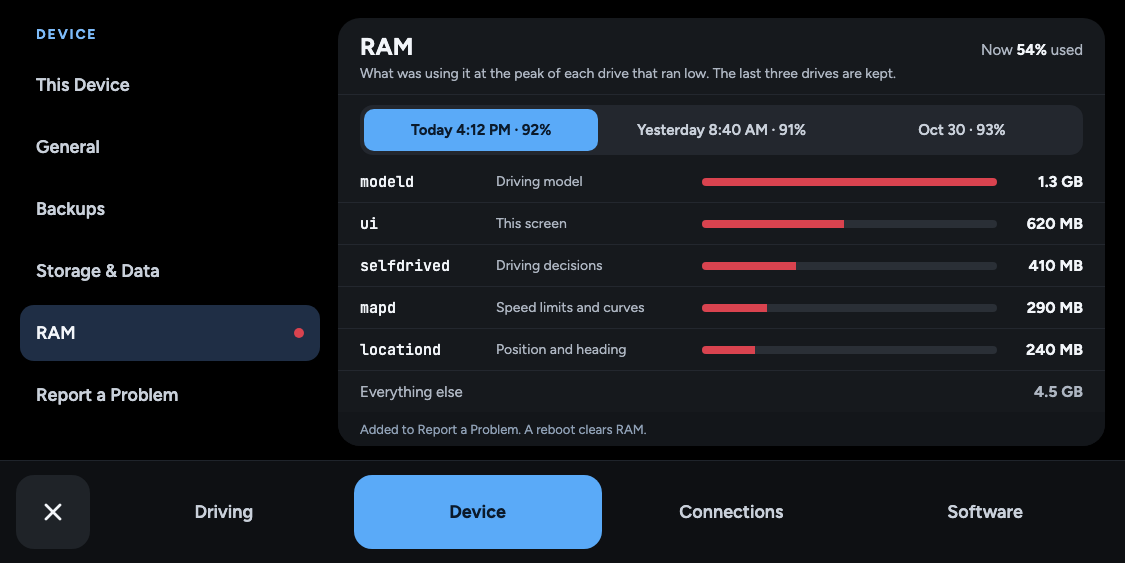
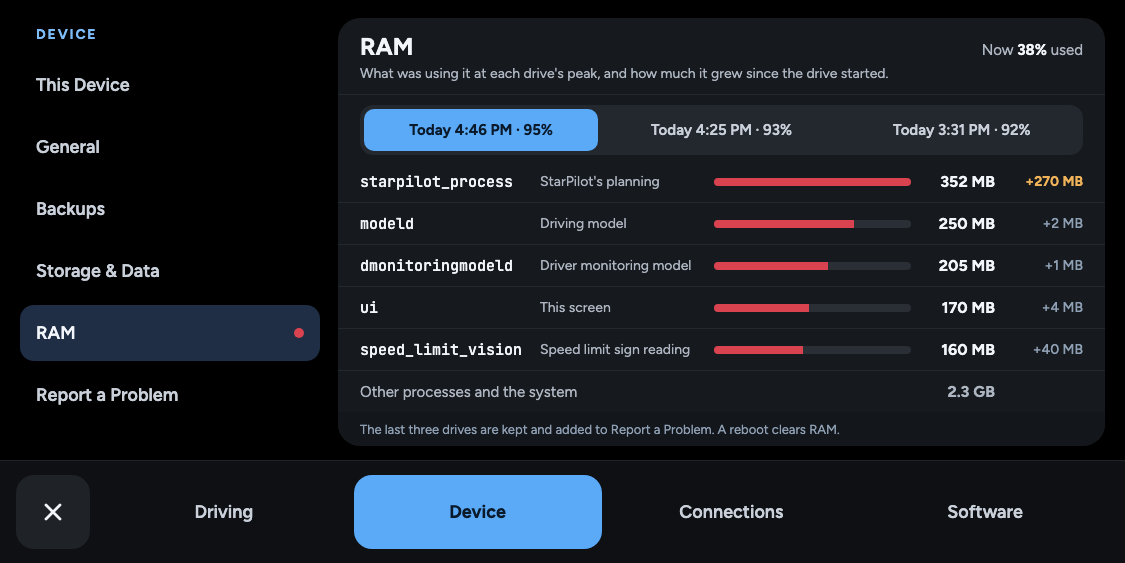
Mock RAM growth since the drive started on Device › RAM
Each process row gains its growth since a baseline a minute into the
drive (amber from 50 MB), sizes come from the 95% drive, and the bottom
row becomes Other processes and the system.

diff --git a/selfdrive/ui/tandem/design/systemram.html b/selfdrive/ui/tandem/design/systemram.html
@@ -27,51 +27,57 @@ a{color:#7DBBF9}a:hover{color:#A9D3FB}
     </div>
     <div style="flex-grow: 1; min-width: 0; background: #16191D; border-radius: 22px; display: flex; flex-direction: column; overflow: hidden;">
       <div style="padding: 14px 22px 12px; border-bottom: 1px solid #23272E; display: flex; flex-direction: column; gap: 4px;">
-        <div style="display: flex; align-items: baseline; justify-content: space-between;"><h2 style="margin: 0; font-size: 24px; font-weight: 700;">RAM</h2><span style="font-size: 15px; color: #AEB6C2;">Now <b style="color: #F2F5F9;">54%</b> used</span></div>
-        <span style="font-size: 14px; color: #AEB6C2;">What was using it at the peak of each drive that ran low. The last three drives are kept.</span>
+        <div style="display: flex; align-items: baseline; justify-content: space-between;"><h2 style="margin: 0; font-size: 24px; font-weight: 700;">RAM</h2><span style="font-size: 15px; color: #AEB6C2;">Now <b style="color: #F2F5F9;">38%</b> used</span></div>
+        <span style="font-size: 14px; color: #AEB6C2;">What was using it at each drive's peak, and how much it grew since the drive started.</span>
       </div>
       <div role="radiogroup" aria-label="Drives that ran low on RAM" style="margin: 10px 22px 6px; display: grid; grid-template-columns: repeat(3, minmax(0, 1fr)); gap: 6px; background: #23272E; border-radius: 13px; padding: 4px;">
-        <button type="button" role="radio" aria-checked="true" style="font-family: inherit; border: 0; height: 42px; border-radius: 10px; background: #5AAAF8; color: #0B1A2B; font-size: 15px; font-weight: 700;">Today 4:12 PM · 92%</button>
-        <button type="button" role="radio" aria-checked="false" style="font-family: inherit; border: 0; height: 42px; border-radius: 10px; background: transparent; color: #C9D0DA; font-size: 15px; font-weight: 600;">Yesterday 8:40 AM · 91%</button>
-        <button type="button" role="radio" aria-checked="false" style="font-family: inherit; border: 0; height: 42px; border-radius: 10px; background: transparent; color: #C9D0DA; font-size: 15px; font-weight: 600;">Oct 30 · 93%</button>
+        <button type="button" role="radio" aria-checked="true" style="font-family: inherit; border: 0; height: 42px; border-radius: 10px; background: #5AAAF8; color: #0B1A2B; font-size: 15px; font-weight: 700;">Today 4:46 PM · 95%</button>
+        <button type="button" role="radio" aria-checked="false" style="font-family: inherit; border: 0; height: 42px; border-radius: 10px; background: transparent; color: #C9D0DA; font-size: 15px; font-weight: 600;">Today 4:25 PM · 93%</button>
+        <button type="button" role="radio" aria-checked="false" style="font-family: inherit; border: 0; height: 42px; border-radius: 10px; background: transparent; color: #C9D0DA; font-size: 15px; font-weight: 600;">Today 3:31 PM · 92%</button>
       </div>
       <div style="display: flex; flex-direction: column;">
-        <div style="display: flex; align-items: center; gap: 16px; padding: 0 22px; height: 41px; border-bottom: 1px solid #23272E;">
-          <span style="width: 120px; flex-shrink: 0; font-family: 'JetBrains Mono', monospace; font-size: 15px; color: #F2F5F9;">modeld</span>
-          <span style="width: 190px; flex-shrink: 0; font-size: 14px; color: #AEB6C2; white-space: nowrap; overflow: hidden; text-overflow: ellipsis;">Driving model</span>
+        <div style="display: flex; align-items: center; gap: 14px; padding: 0 22px; height: 41px; border-bottom: 1px solid #23272E;">
+          <span style="width: 166px; flex-shrink: 0; font-family: 'JetBrains Mono', monospace; font-size: 15px; color: #F2F5F9; white-space: nowrap; overflow: hidden; text-overflow: ellipsis;">starpilot_process</span>
+          <span style="width: 160px; flex-shrink: 0; font-size: 14px; color: #AEB6C2; white-space: nowrap; overflow: hidden; text-overflow: ellipsis;">StarPilot's planning</span>
           <div style="flex-grow: 1; height: 8px; border-radius: 4px; background: #2A2F36; overflow: hidden;"><div style="width: 100%; height: 100%; background: #D9434F;"></div></div>
-          <span style="width: 70px; flex-shrink: 0; text-align: right; font-size: 16px; font-weight: 700;">1.3 GB</span>
+          <span style="width: 70px; flex-shrink: 0; text-align: right; font-size: 16px; font-weight: 700;">352 MB</span>
+          <span style="width: 74px; flex-shrink: 0; text-align: right; font-size: 14px; font-weight: 700; color: #F0B35A;">+270 MB</span>
         </div>
-        <div style="display: flex; align-items: center; gap: 16px; padding: 0 22px; height: 41px; border-bottom: 1px solid #23272E;">
-          <span style="width: 120px; flex-shrink: 0; font-family: 'JetBrains Mono', monospace; font-size: 15px; color: #F2F5F9;">ui</span>
-          <span style="width: 190px; flex-shrink: 0; font-size: 14px; color: #AEB6C2; white-space: nowrap; overflow: hidden; text-overflow: ellipsis;">This screen</span>
+        <div style="display: flex; align-items: center; gap: 14px; padding: 0 22px; height: 41px; border-bottom: 1px solid #23272E;">
+          <span style="width: 166px; flex-shrink: 0; font-family: 'JetBrains Mono', monospace; font-size: 15px; color: #F2F5F9; white-space: nowrap; overflow: hidden; text-overflow: ellipsis;">modeld</span>
+          <span style="width: 160px; flex-shrink: 0; font-size: 14px; color: #AEB6C2; white-space: nowrap; overflow: hidden; text-overflow: ellipsis;">Driving model</span>
+          <div style="flex-grow: 1; height: 8px; border-radius: 4px; background: #2A2F36; overflow: hidden;"><div style="width: 71%; height: 100%; background: #D9434F;"></div></div>
+          <span style="width: 70px; flex-shrink: 0; text-align: right; font-size: 16px; font-weight: 700;">250 MB</span>
+          <span style="width: 74px; flex-shrink: 0; text-align: right; font-size: 14px; font-weight: 500; color: #8FA0B5;">+2 MB</span>
+        </div>
+        <div style="display: flex; align-items: center; gap: 14px; padding: 0 22px; height: 41px; border-bottom: 1px solid #23272E;">
+          <span style="width: 166px; flex-shrink: 0; font-family: 'JetBrains Mono', monospace; font-size: 15px; color: #F2F5F9; white-space: nowrap; overflow: hidden; text-overflow: ellipsis;">dmonitoringmodeld</span>
+          <span style="width: 160px; flex-shrink: 0; font-size: 14px; color: #AEB6C2; white-space: nowrap; overflow: hidden; text-overflow: ellipsis;">Driver monitoring model</span>
+          <div style="flex-grow: 1; height: 8px; border-radius: 4px; background: #2A2F36; overflow: hidden;"><div style="width: 58%; height: 100%; background: #D9434F;"></div></div>
+          <span style="width: 70px; flex-shrink: 0; text-align: right; font-size: 16px; font-weight: 700;">205 MB</span>
+          <span style="width: 74px; flex-shrink: 0; text-align: right; font-size: 14px; font-weight: 500; color: #8FA0B5;">+1 MB</span>
+        </div>
+        <div style="display: flex; align-items: center; gap: 14px; padding: 0 22px; height: 41px; border-bottom: 1px solid #23272E;">
+          <span style="width: 166px; flex-shrink: 0; font-family: 'JetBrains Mono', monospace; font-size: 15px; color: #F2F5F9; white-space: nowrap; overflow: hidden; text-overflow: ellipsis;">ui</span>
+          <span style="width: 160px; flex-shrink: 0; font-size: 14px; color: #AEB6C2; white-space: nowrap; overflow: hidden; text-overflow: ellipsis;">This screen</span>
           <div style="flex-grow: 1; height: 8px; border-radius: 4px; background: #2A2F36; overflow: hidden;"><div style="width: 48%; height: 100%; background: #D9434F;"></div></div>
-          <span style="width: 70px; flex-shrink: 0; text-align: right; font-size: 16px; font-weight: 700;">620 MB</span>
+          <span style="width: 70px; flex-shrink: 0; text-align: right; font-size: 16px; font-weight: 700;">170 MB</span>
+          <span style="width: 74px; flex-shrink: 0; text-align: right; font-size: 14px; font-weight: 500; color: #8FA0B5;">+4 MB</span>
         </div>
-        <div style="display: flex; align-items: center; gap: 16px; padding: 0 22px; height: 41px; border-bottom: 1px solid #23272E;">
-          <span style="width: 120px; flex-shrink: 0; font-family: 'JetBrains Mono', monospace; font-size: 15px; color: #F2F5F9;">selfdrived</span>
-          <span style="width: 190px; flex-shrink: 0; font-size: 14px; color: #AEB6C2; white-space: nowrap; overflow: hidden; text-overflow: ellipsis;">Driving decisions</span>
-          <div style="flex-grow: 1; height: 8px; border-radius: 4px; background: #2A2F36; overflow: hidden;"><div style="width: 32%; height: 100%; background: #D9434F;"></div></div>
-          <span style="width: 70px; flex-shrink: 0; text-align: right; font-size: 16px; font-weight: 700;">410 MB</span>
+        <div style="display: flex; align-items: center; gap: 14px; padding: 0 22px; height: 41px; border-bottom: 1px solid #23272E;">
+          <span style="width: 166px; flex-shrink: 0; font-family: 'JetBrains Mono', monospace; font-size: 15px; color: #F2F5F9; white-space: nowrap; overflow: hidden; text-overflow: ellipsis;">speed_limit_vision</span>
+          <span style="width: 160px; flex-shrink: 0; font-size: 14px; color: #AEB6C2; white-space: nowrap; overflow: hidden; text-overflow: ellipsis;">Speed limit sign reading</span>
+          <div style="flex-grow: 1; height: 8px; border-radius: 4px; background: #2A2F36; overflow: hidden;"><div style="width: 45%; height: 100%; background: #D9434F;"></div></div>
+          <span style="width: 70px; flex-shrink: 0; text-align: right; font-size: 16px; font-weight: 700;">160 MB</span>
+          <span style="width: 74px; flex-shrink: 0; text-align: right; font-size: 14px; font-weight: 500; color: #8FA0B5;">+40 MB</span>
         </div>
-        <div style="display: flex; align-items: center; gap: 16px; padding: 0 22px; height: 41px; border-bottom: 1px solid #23272E;">
-          <span style="width: 120px; flex-shrink: 0; font-family: 'JetBrains Mono', monospace; font-size: 15px; color: #F2F5F9;">mapd</span>
-          <span style="width: 190px; flex-shrink: 0; font-size: 14px; color: #AEB6C2; white-space: nowrap; overflow: hidden; text-overflow: ellipsis;">Speed limits and curves</span>
-          <div style="flex-grow: 1; height: 8px; border-radius: 4px; background: #2A2F36; overflow: hidden;"><div style="width: 22%; height: 100%; background: #D9434F;"></div></div>
-          <span style="width: 70px; flex-shrink: 0; text-align: right; font-size: 16px; font-weight: 700;">290 MB</span>
-        </div>
-        <div style="display: flex; align-items: center; gap: 16px; padding: 0 22px; height: 41px; border-bottom: 1px solid #23272E;">
-          <span style="width: 120px; flex-shrink: 0; font-family: 'JetBrains Mono', monospace; font-size: 15px; color: #F2F5F9;">locationd</span>
-          <span style="width: 190px; flex-shrink: 0; font-size: 14px; color: #AEB6C2; white-space: nowrap; overflow: hidden; text-overflow: ellipsis;">Position and heading</span>
-          <div style="flex-grow: 1; height: 8px; border-radius: 4px; background: #2A2F36; overflow: hidden;"><div style="width: 18%; height: 100%; background: #D9434F;"></div></div>
-          <span style="width: 70px; flex-shrink: 0; text-align: right; font-size: 16px; font-weight: 700;">240 MB</span>
-        </div>
-        <div style="display: flex; align-items: center; gap: 16px; padding: 0 22px; height: 41px;">
-          <span style="flex-grow: 1; font-size: 15px; color: #AEB6C2;">Everything else</span>
-          <span style="width: 70px; flex-shrink: 0; text-align: right; font-size: 16px; font-weight: 700; color: #AEB6C2;">4.5 GB</span>
+        <div style="display: flex; align-items: center; gap: 14px; padding: 0 22px; height: 41px;">
+          <span style="flex-grow: 1; font-size: 15px; color: #AEB6C2;">Other processes and the system</span>
+          <span style="width: 70px; flex-shrink: 0; text-align: right; font-size: 16px; font-weight: 700; color: #AEB6C2;">2.3 GB</span>
+          <span style="width: 74px; flex-shrink: 0;"></span>
         </div>
       </div>
-      <div style="margin-top: auto; padding: 10px 22px; background: #13161A; font-size: 13px; color: #8FA0B5;">Added to Report a Problem. A reboot clears RAM.</div>
+      <div style="margin-top: auto; padding: 10px 22px; background: #13161A; font-size: 13px; color: #8FA0B5;">The last three drives are kept and added to Report a Problem. A reboot clears RAM.</div>
     </div>
   </div>
   <nav style="height: 102px; flex-shrink: 0; border-top: 1px solid #1F242B; background: #0E1013; display: flex; align-items: center; gap: 10px; padding: 0 16px;">
